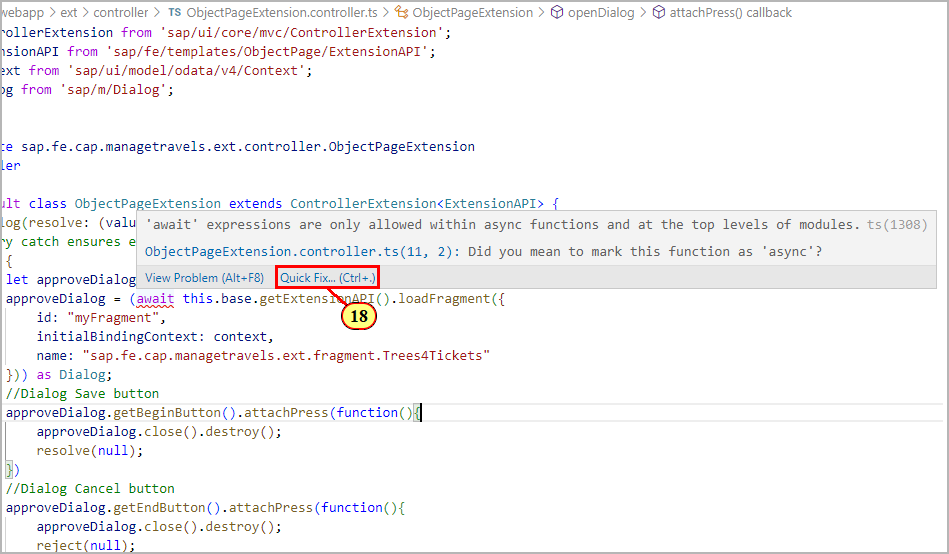
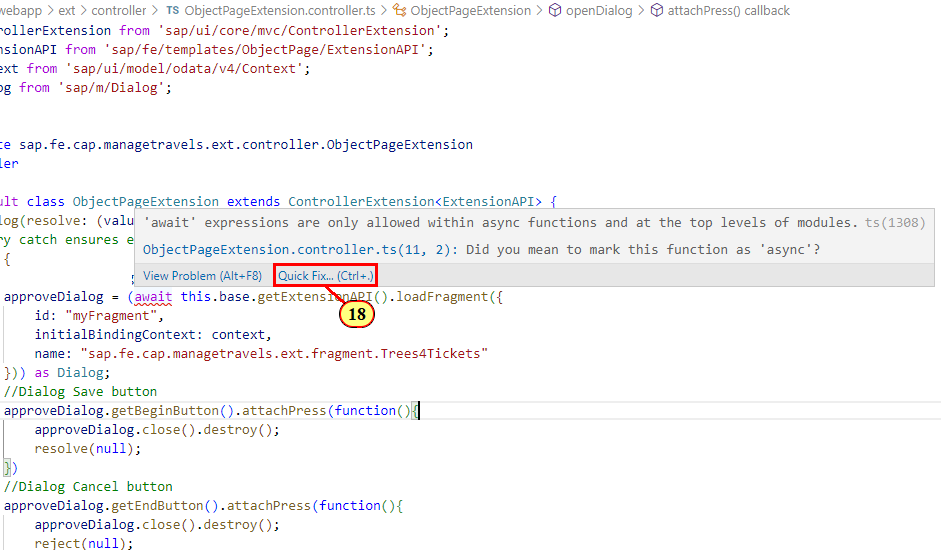
exercises updated

Changed region(s): [[0.0, 0.0, 1.0, 1.0], [0.0, 0.2473, 0.491, 0.3091]]

diff --git a/app/test-resources/ext/controller/ObjectPageExtension.controller.ts b/app/test-resources/ext/controller/ObjectPageExtension.controller.ts
@@ -11,8 +11,7 @@ export default class ObjectPageExtension extends ControllerExtension<ExtensionAP
 	async openDialog(resolve: (value: PromiseLike<null> | null) => void, reject: (reason?: any) => void, context: Context) {
 		//try catch ensures errors in floating promises are handled properly
 		try {
-			let approveDialog: Dialog;
-			approveDialog = (await this.base.getExtensionAPI().loadFragment({
+			let approveDialog = (await this.base.getExtensionAPI().loadFragment({
 				id: "myFragment",
 				initialBindingContext: context,
 				name: "sap.fe.cap.managetravels.ext.fragment.Trees4Tickets"

diff --git a/exercises/ex8/README.md b/exercises/ex8/README.md
@@ -82,8 +82,7 @@ For more examples on overriding the edit flow API, you can check the [Flexible P
 ```ts
 		//try catch ensures errors in floating promises are handled properly
 		try {
-			let approveDialog: Dialog;
-			approveDialog = (await this.base.getExtensionAPI().loadFragment({
+			let approveDialog = (await this.base.getExtensionAPI().loadFragment({
 				id: "myFragment",
 				initialBindingContext: context,
 				name: "sap.fe.cap.managetravels.ext.fragment.Trees4Tickets"
